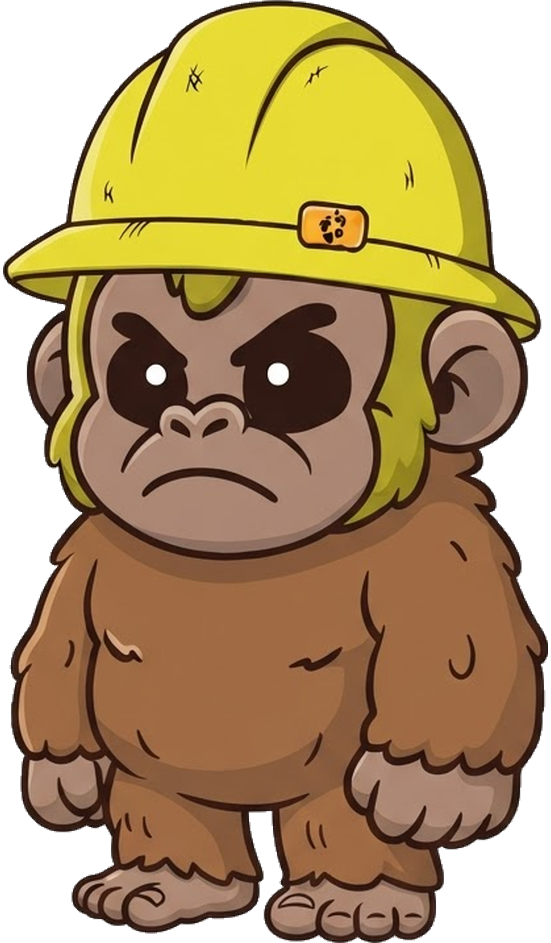
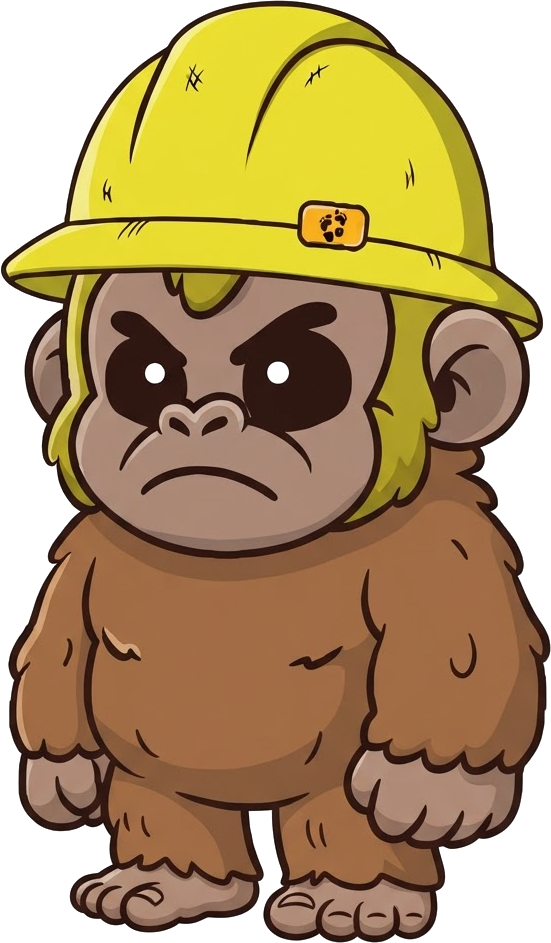
UNITY-BUILD DEFAULT FOR ALL MAPS + CHARACTER-SPECIFIC IDLES (BudE Sept 26 PM: 'the maps are still rendering or using the old art references not unity building it itself' + 'the idle should be character specific')
- LilFootsArtPass: isTile no longer gated on the r1_depth_test id (ROOT CAUSE: spine
  map r1_1 fell through to the painted-art paths) - the Unity-built skin (ProcTiles sky,
  Tilemap terrain, Unity props) is now the DEFAULT for every map; legacy painting binds
  (full/long/epic/story) never run when Unity builds the skin.
- tools/gen_idle_sheets.py + 12 new idle frames: per-character 4-panel idle sets on the
  exact frame canvases - Lily graceful slow breath + head sway, Buddy energetic
  squash/bounce overshoot, Emma calm deep breath + rise. Rest panel ships his exact art.
- RigPass: per-character idleFps (Lily 1.8 / Buddy 3.0 / Emma 1.5).
- SmokeTest: CI gate for the flip law (rig must mirror BOTH directions) + 4-panel idle
  and 4-frame jump set wiring checks.

diff --git a/tools/gen_idle_sheets.py b/tools/gen_idle_sheets.py
@@ -1,0 +1,76 @@
+#!/usr/bin/env python3
+"""CHARACTER-SPECIFIC IDLE SHEETS (BudE Sept 26: "the idle needs work too and
+should be character specific for each character").
+
+Doctrine: the approved art is NEVER cut or redrawn - each idle panel is the whole
+original art with a character-specific breathing motion (vertical stretch about
+the feet pivot, tiny tilt, gentle bob), rendered on the exact frame canvas the
+walk/jump sets use (Lily 548x920, Buddy 551x943, Emma 511x921) so FrameAnimator
+swaps them with zero scaling seams.
+
+Per-character personality (played by FrameAnimator ping-pong 0,1,2,3,2,1...):
+  Lily  - graceful slow breath, gentle head sway  (idleFps 1.8)
+  Buddy - energetic squash/bounce overshoot       (idleFps 3.0)
+  Emma  - calm deep breath, subtle rise + drift   (idleFps 1.5)
+"""
+import math
+import os
+from PIL import Image
+
+ROOT = os.path.join(os.path.dirname(__file__), '..', 'unity', 'Assets', 'Art')
+
+IDLE = {
+    'lily': [
+        (1.000, 0.0, 0, 0),    # rest
+        (1.006, 0.6, 0, 0),    # mid inhale, slight tilt
+        (1.012, 1.0, 0, 0),    # full inhale, gentle sway
+        (1.004, -0.4, 0, 0),   # exhale, head settles the other way
+    ],
+    'buddy': [
+        (1.000, 0.0, 0, 0),    # rest
+        (0.995, 0.0, 0, 2),    # anticipation squash (press down)
+        (1.018, 0.0, 0, -4),   # bounce lift (whole body rises)
+        (1.004, -1.2, 0, 0),   # overshoot sway settling
+    ],
+    'emma': [
+        (1.000, 0.0, 0, 0),    # rest
+        (1.010, 0.0, 0, -1),   # deep inhale, body rises
+        (1.022, 0.0, 0, -3),   # full deep breath, calm lift
+        (1.010, 0.6, 0, -1),   # exhale drift
+    ],
+}
+
+
+def panel(im, sy, rot, dx, dy):
+    """Whole-art transform: vertical scale about the bottom-center pivot (feet stay
+    planted), a tiny tilt about the same pivot, then a whole-body bob. Output canvas
+    is identical to the input so frames swap 1:1 with the walk/jump sets."""
+    w, h = im.size
+    cx, py = w / 2.0, float(h)          # pivot: bottom center (feet baseline)
+    th = math.radians(rot)
+    cos, sin = math.cos(th), math.sin(th)
+    # inverse map (output -> input):
+    #   in = pivot + R(-theta) * diag(1, 1/sy) * (out - pivot - d)
+    # PIL AFFINE tuple (a b c d e f): in = (a*xo + b*yo + c, d*xo + e*yo + f)
+    a = cos
+    b = sin / sy
+    d = -sin
+    e = cos / sy
+    c = cx - cos * (cx + dx) - b * (py + dy)
+    f = py - d * (cx + dx) - e * (py + dy)
+    return im.transform((w, h), Image.AFFINE, (a, b, c, d, e, f),
+                        resample=Image.BICUBIC, fillcolor=(0, 0, 0, 0))
+
+
+for char, params in IDLE.items():
+    src = os.path.join(ROOT, f'whole_{char}.png')
+    im = Image.open(src).convert('RGBA')
+    for i, (sy, rot, dx, dy) in enumerate(params):
+        if sy == 1.0 and rot == 0.0 and dx == 0 and dy == 0:
+            out = im    # rest panel ships his EXACT approved art, zero resampling
+        else:
+            out = panel(im, sy, rot, dx, dy)
+        path = os.path.join(ROOT, 'Frames', f'{char}_idle_{i}.png')
+        out.save(path)
+        print(f'{char}_idle_{i}.png  sy={sy} rot={rot:+} dx={dx} dy={dy}')
+print('done')

diff --git a/unity/Assets/Editor/LilFootsSmokeTest.cs b/unity/Assets/Editor/LilFootsSmokeTest.cs
@@ -79,6 +79,43 @@ public static class LilFootsSmokeTest {
         var art = lily != null ? lily.GetComponentInChildren<SpriteRenderer>() : null;
         C(art != null, "player: sprite art present");
 
+        // [JUMP FACING Sept 26 PM: BudE "the jump is still one directional"] the flip law is
+        // now GATED IN CI: the bridge must mirror the rig for right (scale.x < 0) and show the
+        // left-native art for left (scale.x > 0). The frames are canonical left-native
+        // (tools/normalize_facing.py), the bridge is the single flip authority.
+        if (lily != null) {
+            var fa = lily.GetComponentInChildren<LilFoots.FrameAnimator>();
+            C(fa != null, "anim: FrameAnimator wired on the player rig");
+            C(fa != null && fa.idle != null && fa.idle.Length >= 4,
+              "anim: 4-panel CHARACTER-SPECIFIC idle set wired (found " + (fa != null && fa.idle != null ? fa.idle.Length : 0) + ")");
+            C(fa != null && fa.jump != null && fa.jump.Length >= 4,
+              "anim: 4-frame jump set wired (found " + (fa != null && fa.jump != null ? fa.jump.Length : 0) + ")");
+            var bridge = lily.GetComponentInChildren<LilFoots.PlayerAnimBridge>();
+            if (bridge != null && pc != null) {
+                var rigRoot = bridge.transform;
+                float baseX = System.Math.Abs(rigRoot.localScale.x) > 0.001f
+                              ? System.Math.Abs(rigRoot.localScale.x) : 0.82f;
+                var flags = System.Reflection.BindingFlags.NonPublic | System.Reflection.BindingFlags.Instance;
+                try {
+                    bridge.GetType().GetMethod("Awake", flags)?.Invoke(bridge, null);
+                    int savedFacing = pc.facing;
+                    pc.facing = 1; bridge.GetType().GetMethod("Update", flags)?.Invoke(bridge, null);
+                    bool rightMirrors = rigRoot.localScale.x < 0f;
+                    pc.facing = -1; bridge.GetType().GetMethod("Update", flags)?.Invoke(bridge, null);
+                    bool leftNative = rigRoot.localScale.x > 0f;
+                    pc.facing = savedFacing;
+                    bridge.GetType().GetMethod("Update", flags)?.Invoke(bridge, null);   // restore pose
+                    C(rightMirrors && leftNative,
+                      "facing: rig mirrors BOTH directions (right " + (rightMirrors ? "mirrored" : "BROKEN") +
+                      ", left " + (leftNative ? "left-native" : "BROKEN") + ")");
+                } catch (System.Exception e) {
+                    C(false, "facing: flip check failed to run [" + e.Message + "]");
+                }
+            } else {
+                C(bridge != null, "facing: PlayerAnimBridge present on the player rig");
+            }
+        }
+
         // FROZEN CORE GATE — the feel constants Bude play-tested. Drift here = the core was touched.
         C(pc != null
           && Math.Abs(pc.runSpeed - 4.6f) < 0.01f

diff --git a/unity/Assets/Editor/LilFootsArtPass.cs b/unity/Assets/Editor/LilFootsArtPass.cs
@@ -165,7 +165,12 @@ namespace LilFoots.EditorTools
             // STANDARD native stack (real colliders, Unity Tilemap terrain skin via
             // LilFootsTilemapSkin, bound props/tokens/character) like every other course. LILFOOTS_TILEMAP=0
             // restores the retired v12 painting bind.
-            bool isTile = isDt && (System.Environment.GetEnvironmentVariable("LILFOOTS_TILEMAP") ?? "1") != "0";
+            // [UNITY-BUILD FIX Sept 26 PM: BudE "the maps are still rendering or using the old
+            // art references not unity building it itself"] ROOT CAUSE: isTile was gated on isDt
+            // (the r1_depth_test id), so the spine map (r1_1) fell through to the painted-art
+            // paths. The Unity-built skin is now the DEFAULT for EVERY map - LILFOOTS_TILEMAP=0
+            // opts a map back into the retired painting bind.
+            bool isTile = (System.Environment.GetEnvironmentVariable("LILFOOTS_TILEMAP") ?? "1") != "0";
             if (isTile) isDt = false;
             var camGo = GameObject.Find("MainCamera");
             var cam = camGo != null ? camGo.GetComponent<UnityEngine.Camera>() : null;
@@ -202,7 +207,7 @@ namespace LilFoots.EditorTools
             // character runs and jumps around for that map'): for the story course the ENTIRE
             // backdrop is ONE continuous painting with the narrative arc baked in left-to-right
             // (meadow awakening -> fern hollow -> the climb -> old-growth finale). ----
-            if (isFull) {
+            if (isFull && !isTile) {   // [UNITY-BUILD FIX Sept 26] retired painting binds never run when Unity builds the skin
                 // ---- ONE COMPLETE FULL NEW MAP (BudE, Sept 21 ~2:30 PM ET: 'stop adding the
                 // blocks and pieces in, its not turning out like im wanting i need to to generate
                 // one comlete full new map'): the ENTIRE level is ONE generated painting
@@ -584,7 +589,7 @@ namespace LilFoots.EditorTools
                 // band (art_terrain_r1: living moss fringe + rich earth in the same stroke)
                 // - neighboring grounds sample adjoining texture, so the whole course reads
                 // as one solid vein of earth. Cap/edge tiles are retired for this map. ----
-                if (isStory && h >= 2f && L(2)) {
+                if (isStory && h >= 2f && L(2) && !isTile) {   // [UNITY-BUILD FIX Sept 26] painted story bands retire on Unity-built maps
                     var band = ArtCrop("art_terrain_r1.png", w, h, child.position.x - w / 2f);
                     if (band != null) {
                         SpriteGo("StoryTerrain", band, new Vector3(child.position.x, top - h / 2f, 0), w, -2, child);

diff --git a/unity/Assets/Editor/RigPass.cs b/unity/Assets/Editor/RigPass.cs
@@ -230,6 +230,15 @@ namespace LilFoots.EditorTools
             if (walk.Length == 0 && jump.Length == 0 && idle.Length == 0) return;
             var fa = root.AddComponent<FrameAnimator>();
             fa.idle = idle; fa.walk = walk; fa.jump = jump;
+            // [CHARACTER-SPECIFIC IDLE Sept 26 PM: BudE "the idle should be character specific
+            // for each character"] each Lil Foot breathes at their own cadence: Lily graceful
+            // and slow, Buddy quick and bouncy, Emma calm and deep. The 4-panel idle sheets
+            // (tools/gen_idle_sheets.py) carry the per-character motion; the fps carries the
+            // personality of the rhythm.
+            string cn = charName.ToLower();
+            if (cn == "lily") fa.idleFps = 1.8f;        // graceful slow breath
+            else if (cn == "buddy") fa.idleFps = 3.0f;  // energetic bounce
+            else if (cn == "emma") fa.idleFps = 1.5f;   // calm deep breath
             Debug.Log("[RigPass] FRAME ANIMATION: " + charName + " wired - " + walk.Length + " walk / "
                       + jump.Length + " jump / " + idle.Length + " idle generated frames");
         }
